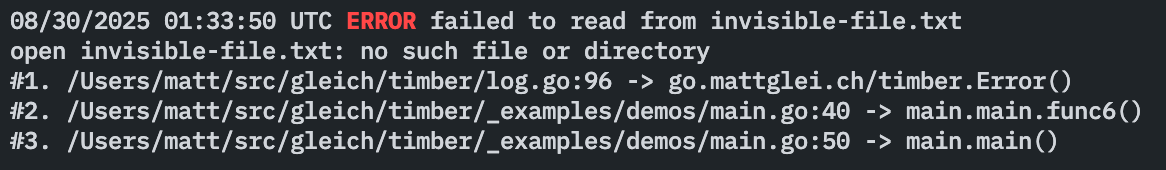
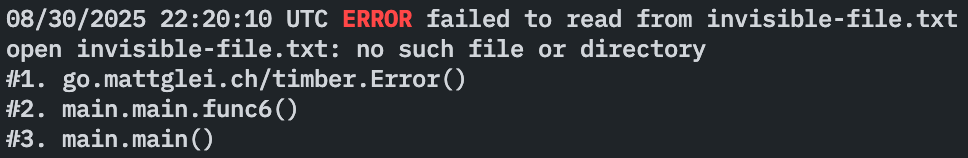
feat: just output function calls instead of file paths

Changed region(s): [[0.0, 0.4051, 0.9917, 0.962], [0.0, 0.0506, 0.9917, 0.2025], [0.0, 0.2278, 0.7438, 0.3797]]

diff --git a/log.go b/log.go
@@ -64,7 +64,7 @@ func stackTrace(builder *strings.Builder) {
 	frames := runtime.CallersFrames(programCounters)
 	for i := 1; ; i++ {
 		frame, more := frames.Next()
-		fmt.Fprintf(builder, "#%d. %s:%d -> %s()\n", i, frame.File, frame.Line, frame.Function)
+		fmt.Fprintf(builder, "#%d. %s()\n", i, frame.Function)
 		if !more {
 			break
 		}

diff --git a/_examples/demos/main.go b/_examples/demos/main.go
@@ -40,9 +40,9 @@ func main() {
 				timber.Error(err, "failed to read from", fname)
 			}
 		},
-		func() {
-			timber.FatalMsg("fatal message")
-		},
+		// func() {
+		// 	timber.FatalMsg("fatal message")
+		// },
 	}
 
 	for _, demo := range demos {
